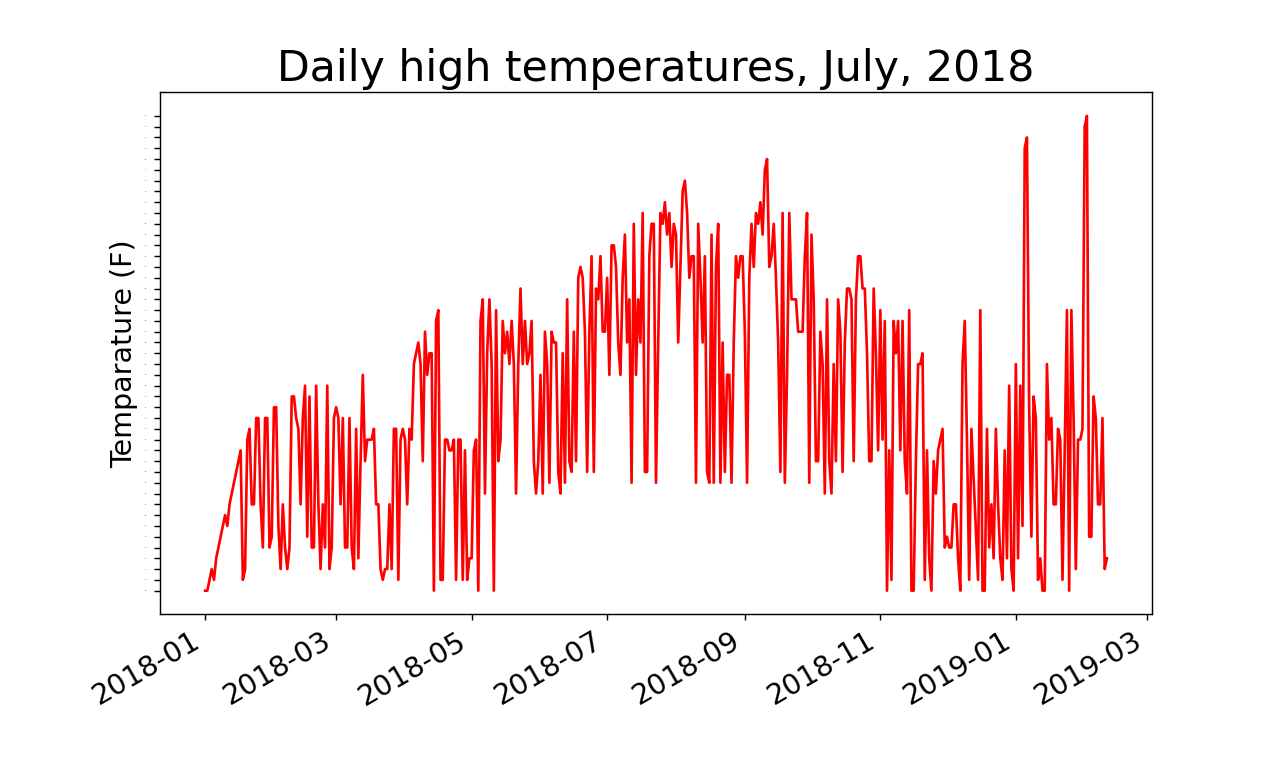
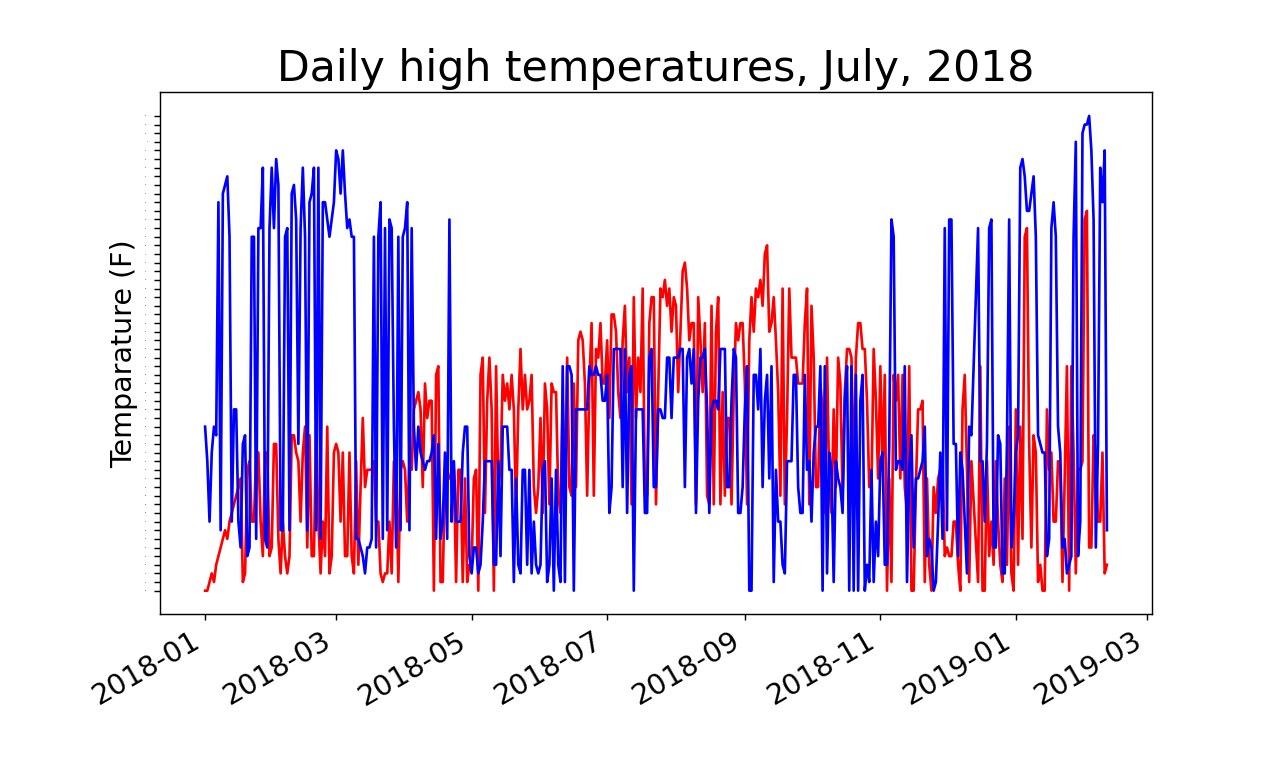
added in json file with population data

Changed region(s): [[0.1562, 0.1562, 0.875, 0.7812]]

diff --git a/high_lows.py b/high_lows.py
@@ -10,15 +10,18 @@ with open(filename) as f:
     
     highs = []
     dates = []
+    lows = []
     for row in reader:
         highs.append(row[8])
         currentDate = datetime.strptime(row[2], "%Y-%m-%d")
         dates.append(currentDate)
+        lows.append(row[9])
             
 
     #plot data
     fig = plt.figure(dpi=128, figsize=(10,6))
     plt.plot(dates, highs, c="red")
+    plt.plot(dates, lows, c="blue")
 
     fig.autofmt_xdate()
 
